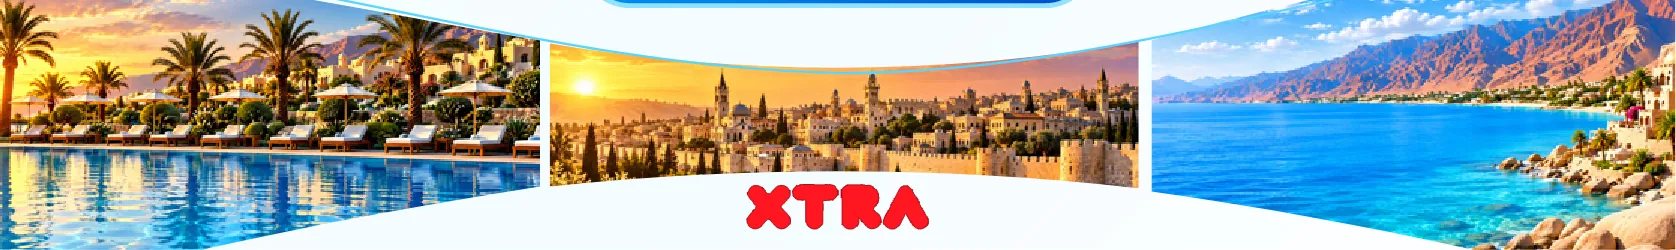
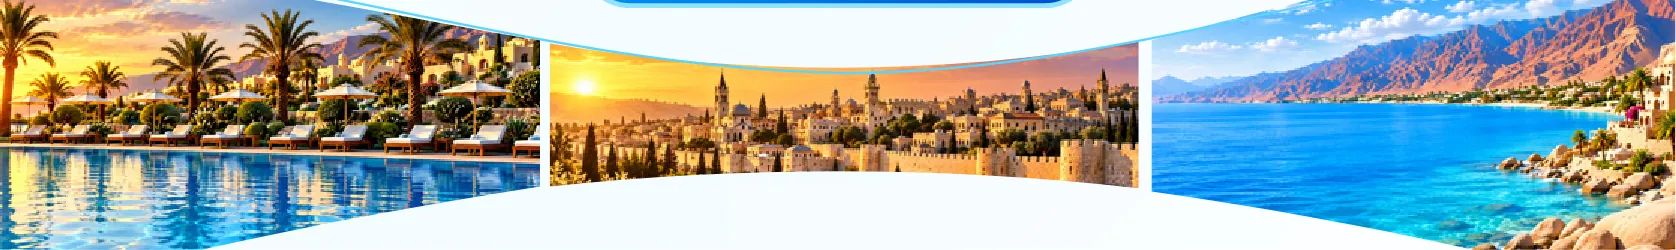
The hotels' call, after a look on a phone: every mark, the leaves, our own wordmark
Three things the first cut got wrong, seen on a real phone width and on
the ad side by side:

- The picture's crop lost the marks at its edges. It is a little wider
  now (15:16), so בנדה, משרד התיירות and התאחדות המלונות all stay in,
  and the badge drawn back in at the corner is smaller and sits under the
  headline instead of on it.
- The ad's leaves were missing. The four clusters are lifted off the
  paper (a leaf is green, olive and yellow; the paper is white or its
  faint blue — how far the darkest channel sits below white is how much
  leaf a pixel is) and stand at the paper's edges beside the weeks and
  beside the exposure marks, behind the pictures, smaller on a phone.
- The ad signs off with its own XTRA mark, baked into the foot; a week's
  circle brought a leaf tip along in its corner; the WhatsApp mark was
  cut at its rim. The mark is painted out and the real wordmark stands in
  the white of the wave (on a phone, on its own line under the strip);
  each week is masked to its ring and pin, measured on the render; the
  WhatsApp mark has its margin back.

Changed region(s): [[0.4344, 0.728, 0.5585, 0.924]]

diff --git a/scripts/design/extract-hotel-assets.ts b/scripts/design/extract-hotel-assets.ts
@@ -20,25 +20,52 @@ const SRC = process.argv[2] ?? '.design/tourism-2026-hotel/ad.pdf'
 const OUT = 'public/tourism-2026/hotel'
 const S = 1676 / 1327
 
-type Box = { name: string; left: number; top: number; right: number; bottom: number; width?: number; quality?: number }
+type Box = { name: string; left: number; top: number; right: number; bottom: number; width?: number; quality?: number; /** Cut out of the paper: the page's own white shows through. */ keyed?: boolean; /** A box to paint over in the paper's white, in the crop's own pixels (the ad's own mark, replaced on the page). */ blank?: [number, number, number, number]; /** Keep only the ring and its pin: the leaves that reach into the box go. */ week?: boolean }
 const d = (name: string, l: number, t: number, r: number, b: number, extra: Partial<Box> = {}): Box => ({ name, left: Math.round(l * S), top: Math.round(t * S), right: Math.round(r * S), bottom: Math.round(b * S), ...extra })
 
 const CROPS: Box[] = [
   // The whole top, cut just above the ad's first line of copy.
   d('hero', 0, 0, 1327, 733, { width: 1676, quality: 82 }),
   // The four weeks — photo, ring and pin — on the page's own white. Week 1 is the rightmost.
-  d('week-1', 950, 862, 1218, 1105),
-  d('week-2', 672, 862, 940, 1105),
-  d('week-3', 393, 862, 661, 1105),
-  d('week-4', 112, 862, 380, 1105),
+  d('week-1', 950, 862, 1218, 1105, { week: true }),
+  d('week-2', 672, 862, 940, 1105, { week: true }),
+  d('week-3', 393, 862, 661, 1105, { week: true }),
+  d('week-4', 99, 862, 367, 1105, { week: true }),
   d('benefit-site', 1040, 1440, 1140, 1540),
   d('benefit-press', 758, 1440, 858, 1540),
   d('benefit-social', 475, 1440, 575, 1540),
   d('benefit-campaign', 190, 1440, 290, 1540),
-  d('whatsapp', 300, 1668, 360, 1728),
+  d('whatsapp', 291, 1659, 369, 1737),
+  // The leaves at the paper's edges, beside the weeks and beside the exposure marks.
+  d('leaf-weeks-right', 1222, 850, 1327, 1100, { keyed: true }),
+  d('leaf-weeks-left', 0, 802, 108, 1110, { keyed: true }),
+  d('leaf-benefits-right', 1215, 1430, 1327, 1660, { keyed: true }),
+  d('leaf-benefits-left', 0, 1350, 140, 1660, { keyed: true }),
   // The foot: the three views and the mark, cut just under the ad's own button.
-  d('foot', 0, 1802, 1327, 2000, { width: 1676, quality: 80 }),
+  // The foot: the three views under the wave. The ad's own mark is painted out; the page sets the real wordmark there.
+  d('foot', 0, 1802, 1327, 2000, { width: 1676, quality: 80, blank: [728, 182, 952, 250] }),
 ]
+
+/**
+ * Lifts a leaf off the paper. The paper is white, or the faint blue the ad
+ * tints it; a leaf is green, olive and yellow — every channel well under
+ * 255. How far the darkest channel sits below white is how much leaf a
+ * pixel is, on a ramp so the soft edges stay soft.
+ */
+function keyOut({ data, info }: { data: Buffer; info: { width: number; height: number; channels: number } }): Buffer {
+  const { width, height, channels } = info
+  const out = Buffer.alloc(width * height * 4)
+  for (let i = 0; i < width * height; i++) {
+    const r = data[i * channels], g = data[i * channels + 1], b = data[i * channels + 2]
+    const depth = 255 - Math.min(r, g, b)
+    const a = Math.max(0, Math.min(1, (depth - 22) / 70))
+    out[i * 4] = r
+    out[i * 4 + 1] = g
+    out[i * 4 + 2] = b
+    out[i * 4 + 3] = Math.round(a * 255)
+  }
+  return out
+}
 
 async function main() {
   mkdirSync(OUT, { recursive: true })
@@ -48,8 +75,19 @@ async function main() {
     const w = box.right - box.left
     const h = box.bottom - box.top
     let img = sharp(page.png).extract({ left: box.left, top: box.top, width: w, height: h })
+    if (box.blank) {
+      const [l, t, r, b] = box.blank
+      img = sharp(await img.composite([{ input: { create: { width: r - l, height: b - t, channels: 3, background: '#f6fdff' } }, left: l, top: t }]).toBuffer())
+    }
+    if (box.keyed) img = sharp(await keyOut(await img.raw().toBuffer({ resolveWithObject: true })), { raw: { width: w, height: h, channels: 4 } })
+    // The ring and the pin, nothing else: the boxes touch the leaves beside them, and a leaf tip in a corner is not the week's.
+    if (box.week) {
+      // Measured on the render: the photo is a circle of r 134 about (173,152) with a white ring around it; the pin's head is r 22 about (57,214) and its tip reaches y 270.
+      const shape = Buffer.from(`<svg xmlns="http://www.w3.org/2000/svg" width="${w}" height="${h}"><circle cx="173" cy="152" r="142" fill="#fff"/><circle cx="57" cy="214" r="27" fill="#fff"/><polygon points="29,220 85,220 57,277" fill="#fff"/></svg>`)
+      img = sharp(await img.ensureAlpha().composite([{ input: shape, blend: 'dest-in' }]).toBuffer())
+    }
     if (box.width && box.width < w) img = img.resize({ width: box.width })
-    const info = await img.webp({ quality: box.quality ?? 90, effort: 6 }).toFile(`${OUT}/${box.name}.webp`)
+    const info = await img.webp({ quality: box.quality ?? 90, effort: 6, alphaQuality: 100 }).toFile(`${OUT}/${box.name}.webp`)
     console.log(`${box.name}: ${info.width}×${info.height} ${Math.round(info.size / 1024)}KB`)
   }
 }

diff --git a/src/app/[slug]/HotelCall.tsx b/src/app/[slug]/HotelCall.tsx
@@ -15,9 +15,11 @@ import { FloatingCta } from './FloatingCta'
  * faces and the discount badge — is one picture, since none of that type
  * has a font. Everything under it is real text: the invitation, the four
  * regional weeks with the ad's own photographs, the hotel packages, the
- * four kinds of exposure, the contact line and the button. On a phone the
- * picture is cropped to the headline and the badge is drawn again in CSS,
- * where the crop cannot reach it.
+ * four kinds of exposure, the contact line and the button, with the ad's
+ * leaves at the paper's edges. On a phone the picture is cropped to the
+ * three marks and the headline, and the badge is drawn again in CSS, where
+ * the crop cannot reach it. The ad signs off with its own XTRA mark; here
+ * the real wordmark stands in its place.
  */
 
 const INTRO = [
@@ -70,7 +72,9 @@ export function HotelCall({ formId, joinHref }: { formId: string; joinHref: stri
           ))}
         </section>
 
-        <section aria-label="ארבעת השבועות האזוריים">
+        <section className="th-band" aria-label="ארבעת השבועות האזוריים">
+          <img src="/tourism-2026/hotel/leaf-weeks-right.webp" alt="" className="th-leaf th-leaf-right th-leaf-weeks-right" width={133} height={315} loading="lazy" />
+          <img src="/tourism-2026/hotel/leaf-weeks-left.webp" alt="" className="th-leaf th-leaf-left th-leaf-weeks-left" width={136} height={442} loading="lazy" />
           <ol className="th-weeks">
             {WEEKS.map((week) => (
               <li key={week.image} className="th-week">
@@ -94,7 +98,9 @@ export function HotelCall({ formId, joinHref }: { formId: string; joinHref: stri
           ))}
         </p>
 
-        <section aria-label="מה אתם מקבלים">
+        <section className="th-band" aria-label="מה אתם מקבלים">
+          <img src="/tourism-2026/hotel/leaf-benefits-right.webp" alt="" className="th-leaf th-leaf-right th-leaf-benefits-right" width={141} height={291} loading="lazy" />
+          <img src="/tourism-2026/hotel/leaf-benefits-left.webp" alt="" className="th-leaf th-leaf-left th-leaf-benefits-left" width={177} height={392} loading="lazy" />
           <ul className="th-benefits">
             {BENEFITS.map((item) => (
               <li key={item.image} className="th-benefit">
@@ -110,7 +116,7 @@ export function HotelCall({ formId, joinHref }: { formId: string; joinHref: stri
           <span>לפרטים והצטרפות לשת״פ | {CONTACT.name}:</span>
           <a href={CONTACT.whatsapp} target="_blank" rel="noopener noreferrer" aria-label={`WhatsApp אל ${CONTACT.name}, ${CONTACT.phone}`}>
             <span dir="ltr">{CONTACT.phone}</span>
-            <img src="/tourism-2026/hotel/whatsapp.webp" alt="" width={76} height={75} loading="lazy" />
+            <img src="/tourism-2026/hotel/whatsapp.webp" alt="" width={98} height={99} loading="lazy" />
           </a>
         </p>
 
@@ -124,7 +130,10 @@ export function HotelCall({ formId, joinHref }: { formId: string; joinHref: stri
         </div>
       </div>
 
-      <img src="/tourism-2026/hotel/foot.webp" alt="" className="th-foot" width={1676} height={250} loading="lazy" />
+      <div className="th-foot">
+        <img src="/tourism-2026/hotel/foot.webp" alt="" className="th-foot-strip" width={1676} height={250} loading="lazy" />
+        <img src="/xtra-logo.png" alt="XTRA" className="th-foot-mark" width={2039} height={492} loading="lazy" />
+      </div>
 
       <FloatingCta href={joinHref} watch=".th-cta" formId={formId} />
       <CampaignTracker formId={formId} event="page_view" />

diff --git a/src/app/[slug]/hotel.css b/src/app/[slug]/hotel.css
@@ -62,6 +62,55 @@
   margin: 0;
 }
 
+/* ── the leaves ──────────────────────────────────────────────────────────── */
+
+/* A band is a section that lets the ad's leaves out of the column, to the
+   paper's edges — the page clips whatever a leaf pushes past the viewport. */
+.th-band {
+  position: relative;
+}
+
+.th-band > ol,
+.th-band > ul {
+  position: relative;
+  z-index: 1;
+}
+
+.th-leaf {
+  position: absolute;
+  z-index: 0;
+  pointer-events: none;
+  user-select: none;
+}
+
+.th-leaf-right {
+  right: calc(50% - 50vw);
+}
+
+.th-leaf-left {
+  left: calc(50% - 50vw);
+}
+
+.th-leaf-weeks-right {
+  top: -12px;
+  width: clamp(72px, 9.2vw, 133px);
+}
+
+.th-leaf-weeks-left {
+  top: -100px;
+  width: clamp(72px, 9.4vw, 136px);
+}
+
+.th-leaf-benefits-right {
+  top: -14px;
+  width: clamp(76px, 9.8vw, 141px);
+}
+
+.th-leaf-benefits-left {
+  top: -92px;
+  width: clamp(90px, 12.3vw, 177px);
+}
+
 /* ── the four weeks ──────────────────────────────────────────────────────── */
 
 .th-weeks {
@@ -190,7 +239,7 @@
 }
 
 .th-contact img {
-  width: 38px;
+  width: 44px;
   height: auto;
 }
 
@@ -241,9 +290,24 @@
 }
 
 .th-foot {
-  display: block;
+  position: relative;
   width: min(100%, 2000px);
   margin: 0 auto;
+}
+
+.th-foot-strip {
+  display: block;
+  width: 100%;
+}
+
+/* The wordmark stands where the ad set its own: in the white of the wave. */
+.th-foot-mark {
+  position: absolute;
+  left: 50%;
+  bottom: 6%;
+  width: clamp(120px, 11.5%, 200px);
+  height: auto;
+  transform: translateX(-50%);
 }
 
 @media (prefers-reduced-motion: reduce) {
@@ -261,8 +325,9 @@
 @media (max-width: 859.98px) {
   /* The picture is cropped to what a narrow screen can read: the three marks
      and the headline, with the badge drawn back in at the corner. */
+  /* Wide enough to keep all three marks; the badge is drawn back in at the corner. */
   .th-hero-media {
-    aspect-ratio: 5 / 6;
+    aspect-ratio: 15 / 16;
   }
 
   .th-hero-media img {
@@ -274,11 +339,11 @@
 
   .th-badge {
     position: absolute;
-    right: 10px;
-    bottom: 6px;
+    right: 6px;
+    bottom: 4px;
     display: grid;
     place-content: center;
-    width: 106px;
+    width: 92px;
     aspect-ratio: 1;
     margin: 0;
     border-radius: 50%;
@@ -291,20 +356,40 @@
   }
 
   .th-badge span {
-    font-size: 15px;
+    font-size: 13px;
     font-weight: 700;
   }
 
   .th-badge strong {
-    font-size: 36px;
+    font-size: 31px;
     font-weight: 800;
     letter-spacing: -0.02em;
   }
 
   .th-badge small {
-    margin-top: 3px;
-    font-size: 11px;
+    margin-top: 2px;
+    font-size: 9px;
     font-weight: 600;
+  }
+
+  /* The leaves stay at the edges, smaller, behind the pictures. */
+  .th-leaf-weeks-left,
+  .th-leaf-benefits-left {
+    top: -8px;
+  }
+
+  /* Under the strip there is no white left for the mark: it gets its own line. */
+  .th-foot {
+    padding-bottom: 12px;
+    background: #fff;
+  }
+
+  .th-foot-mark {
+    position: static;
+    display: block;
+    width: 104px;
+    margin: 10px auto 0;
+    transform: none;
   }
 
   .th-body {
